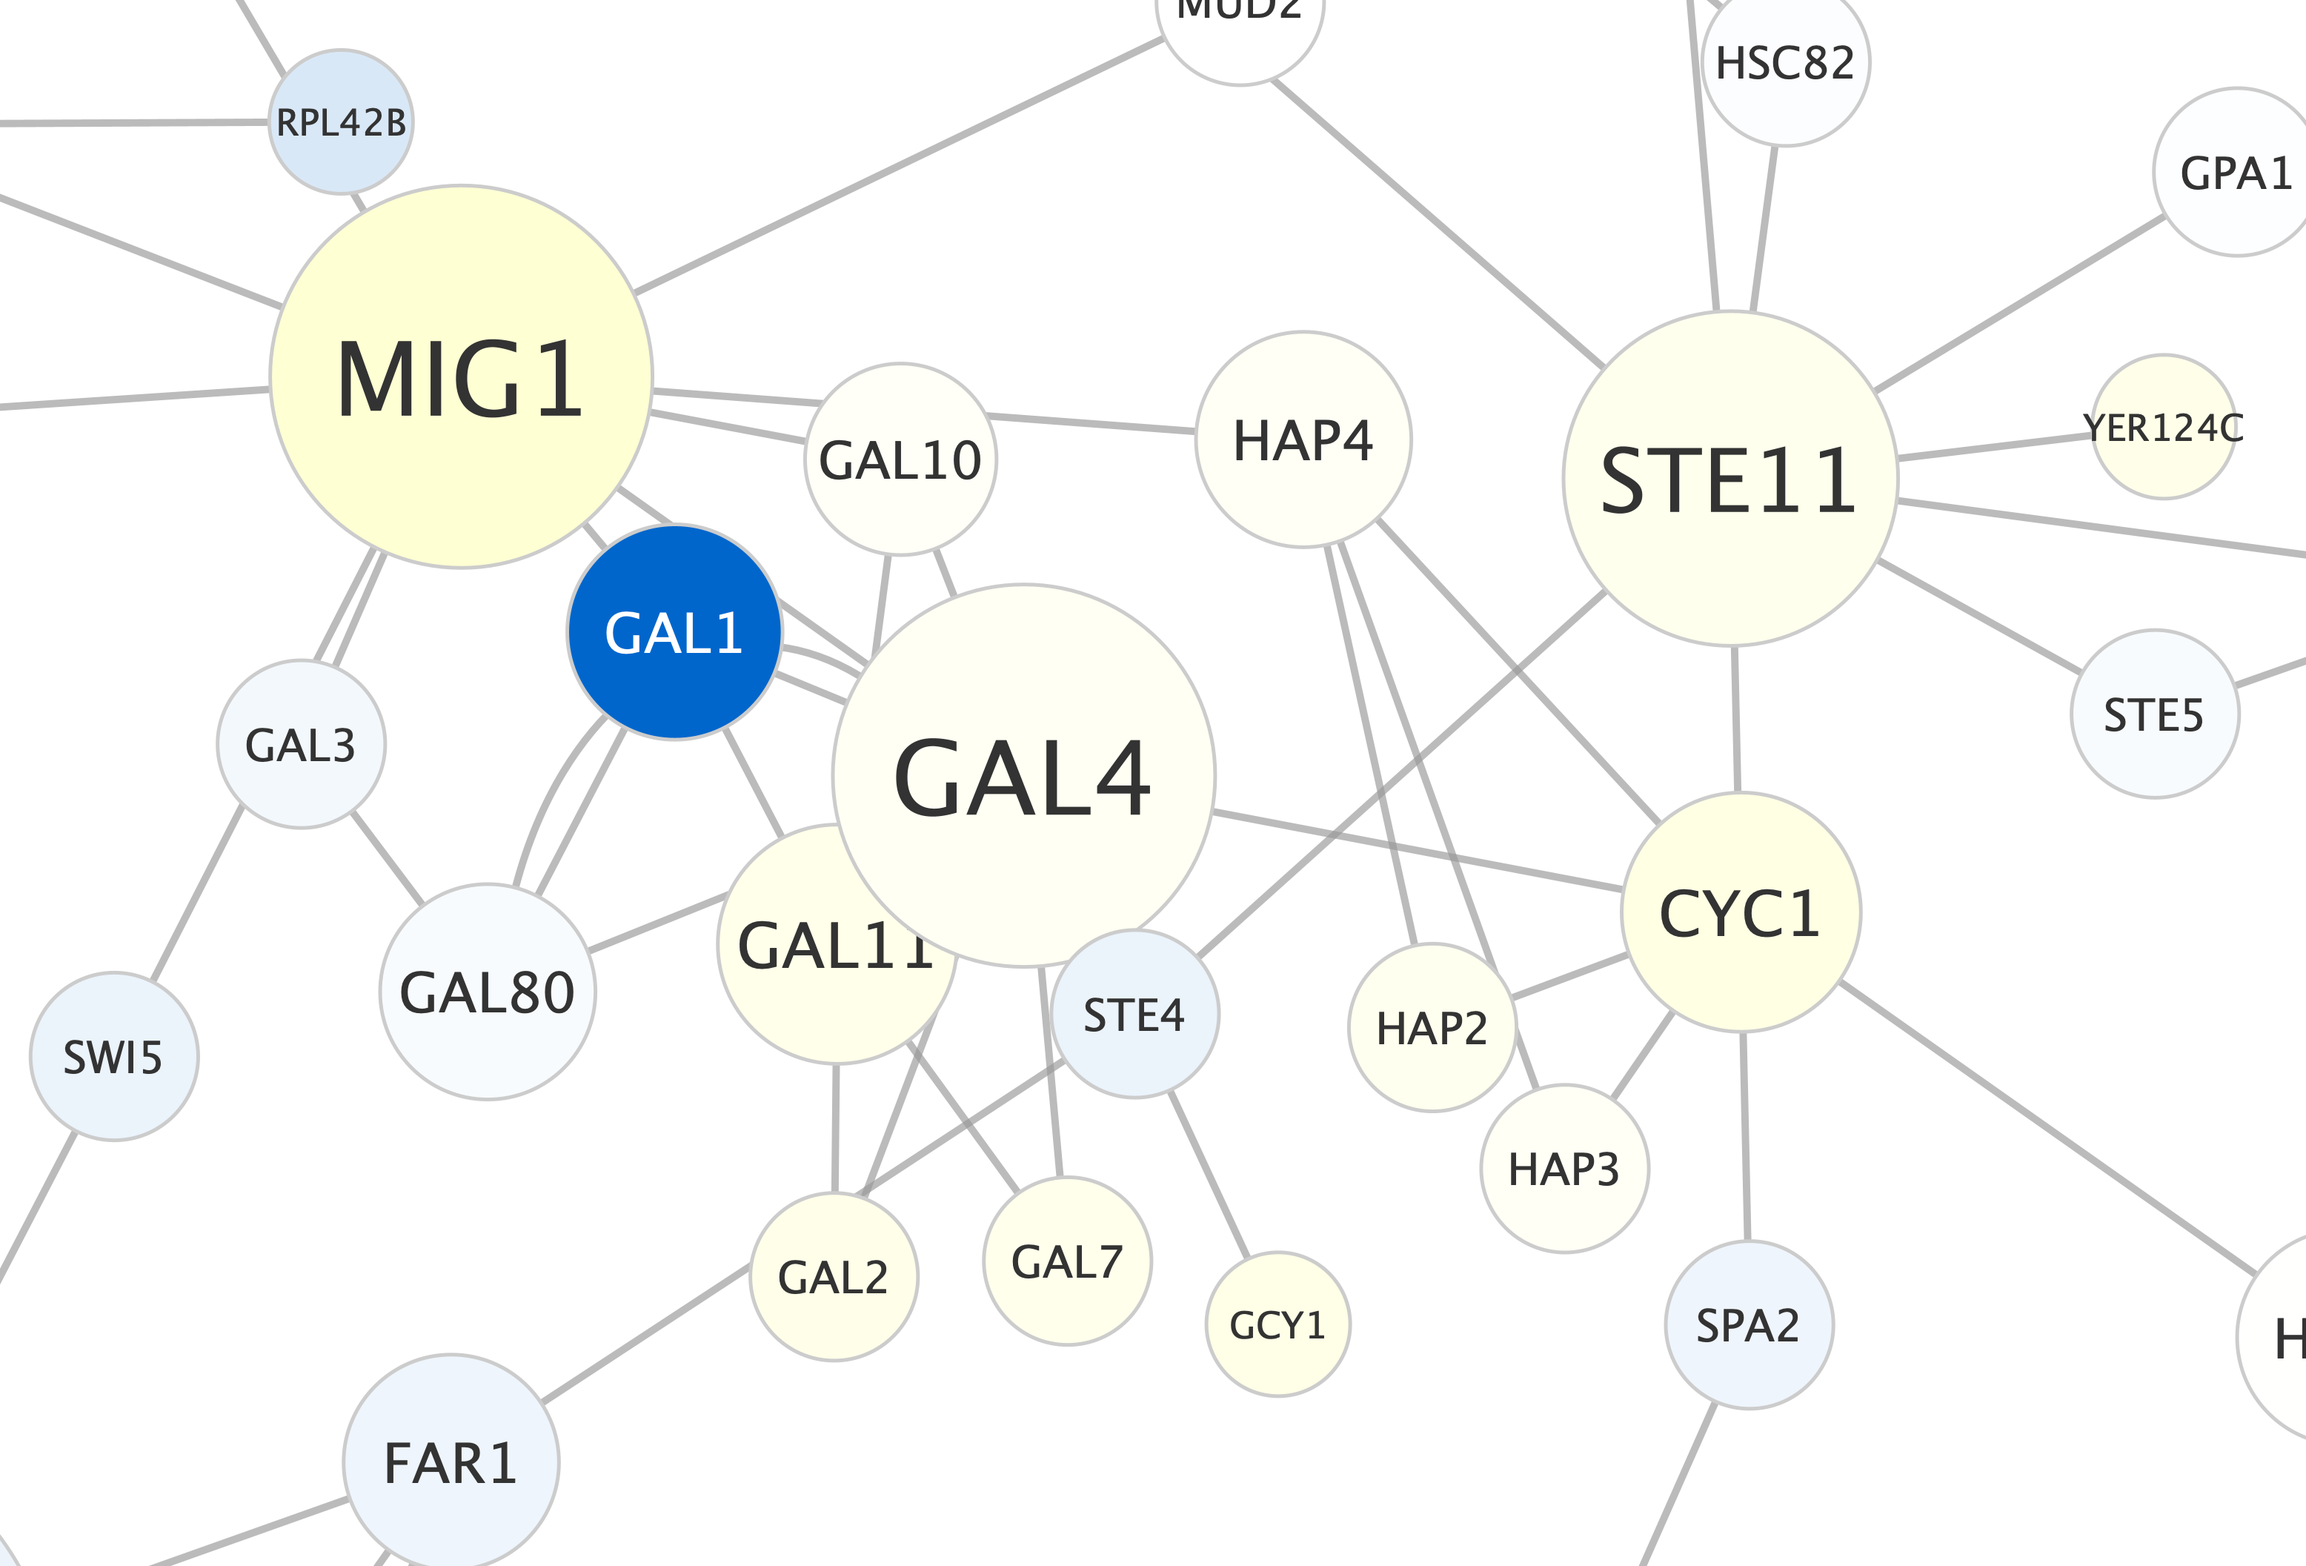
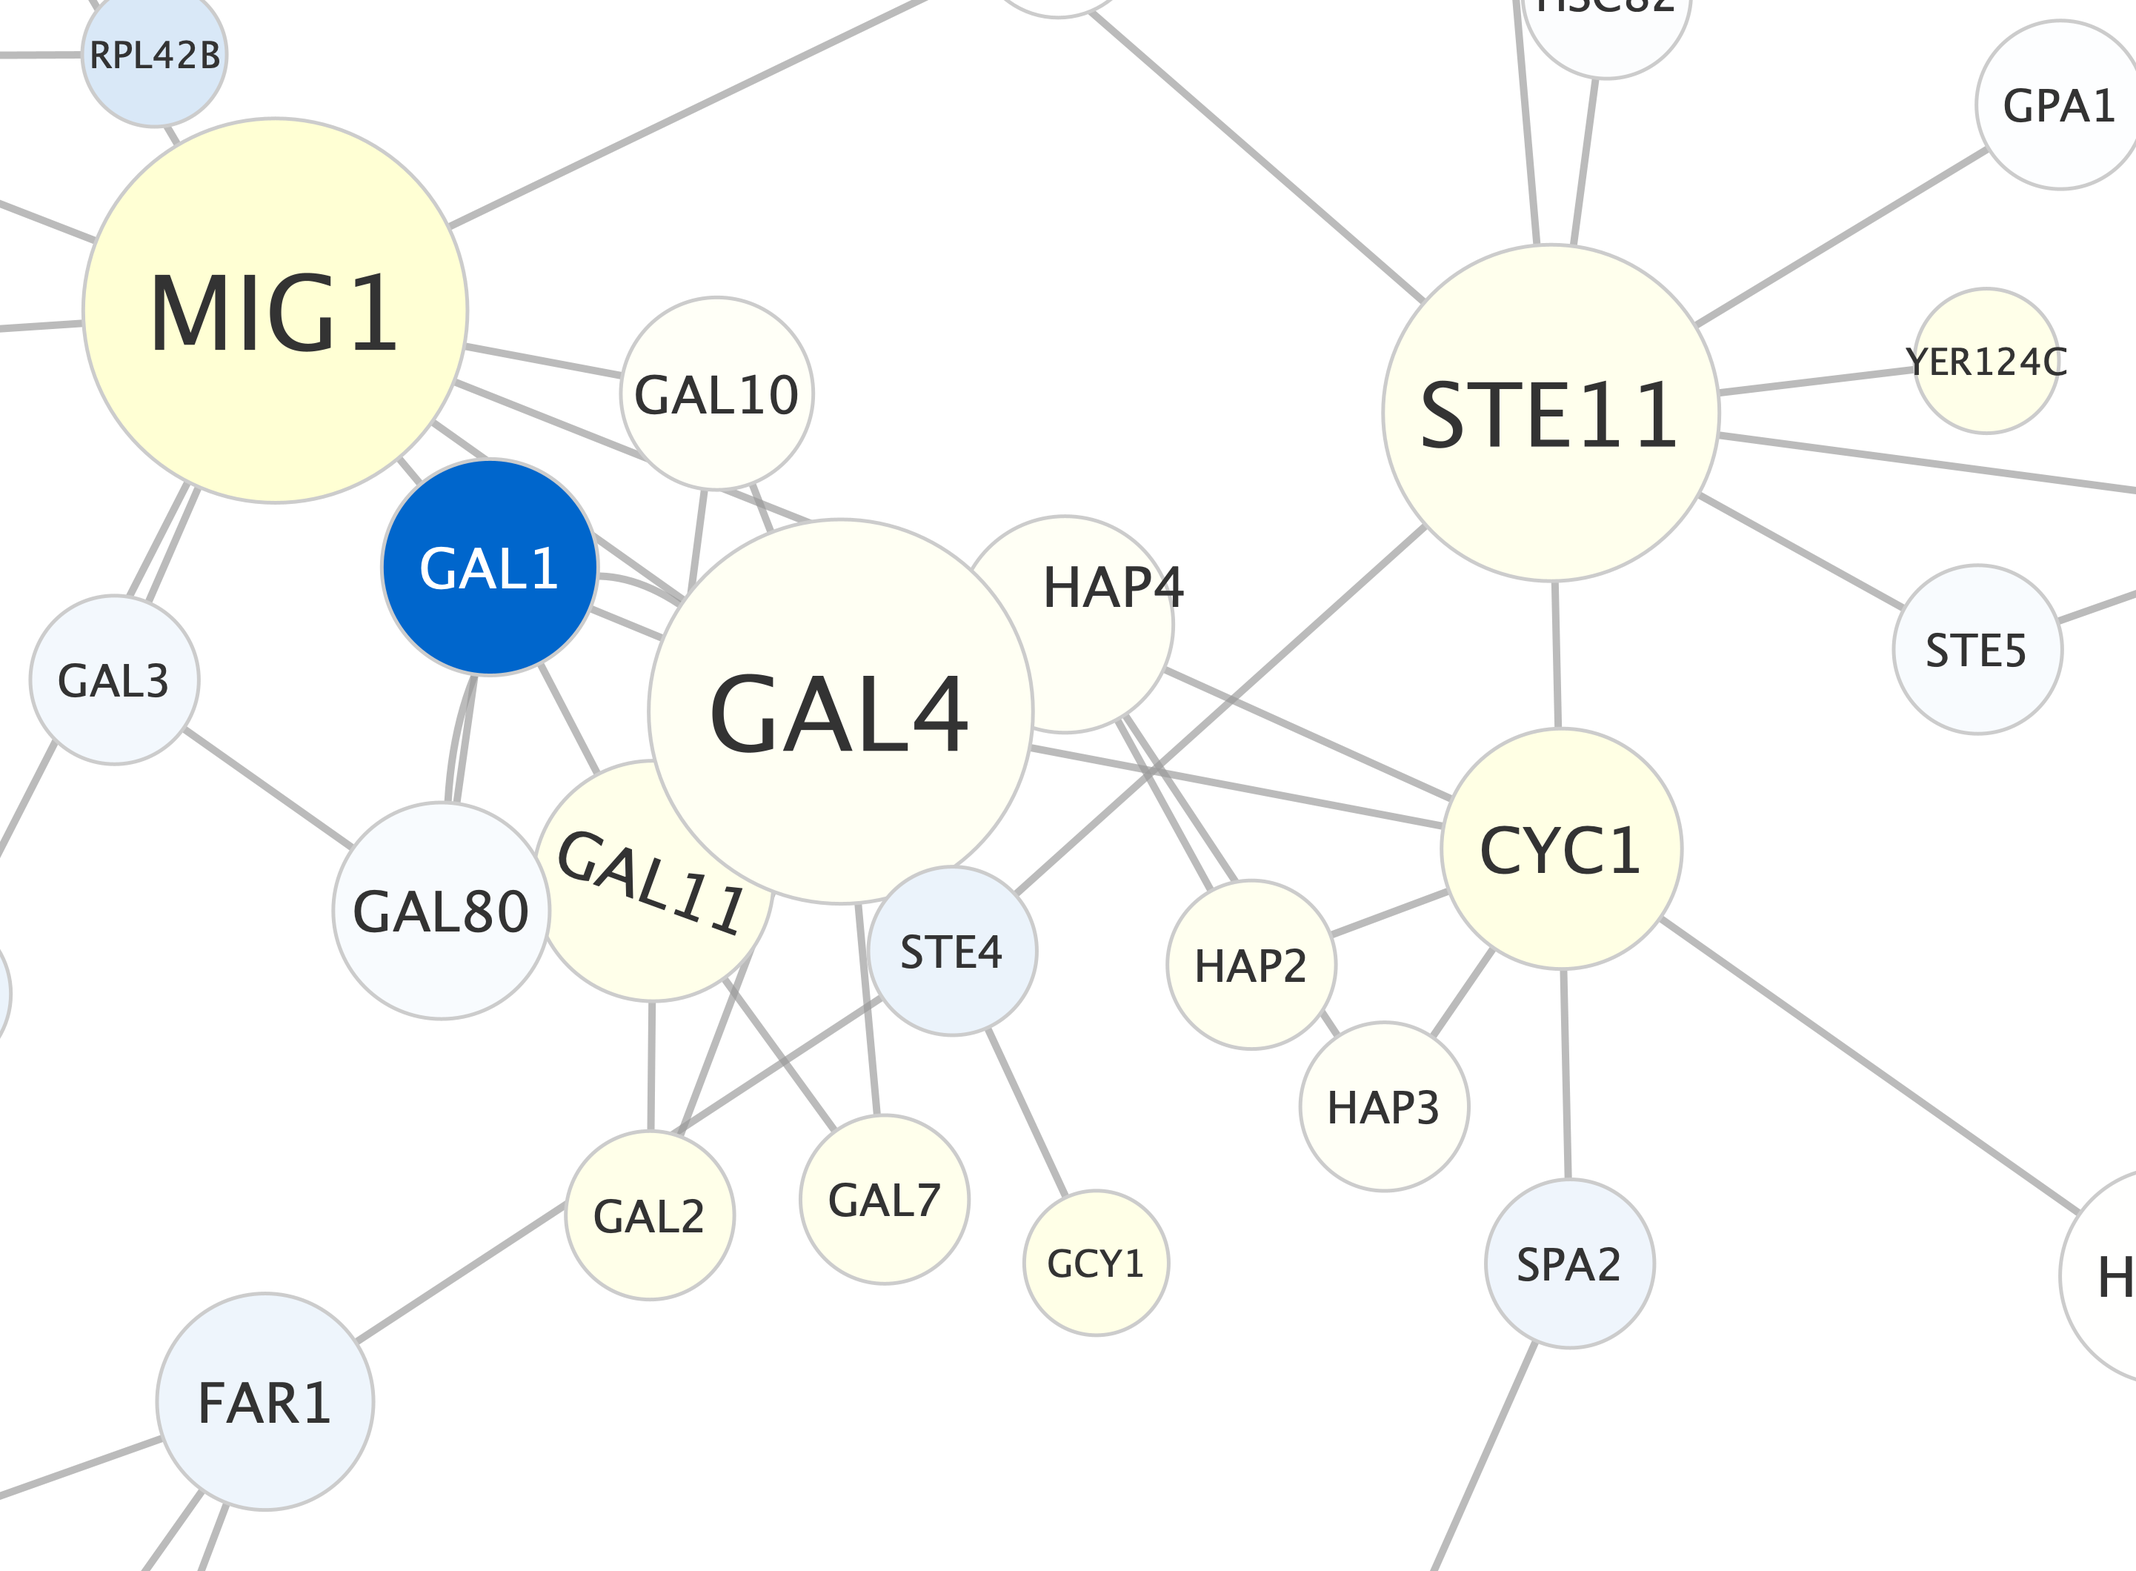
updated content and images

diff --git a/protocols/advanced-node-labels/index.html b/protocols/advanced-node-labels/index.html
@@ -68,21 +68,31 @@
     <ul>
         <li>First, change the <highlight>Node Label Position</highlight> back to the center of the node.</li>
         <li>In the <highlight>Network View Tools</highlight>, click the <highlight>Toggle Node Label Selection</highlight> <img class="plain" src="ToggleNodeLabel.png"/> button.</li>
-        <li>Select any node of your choice. Click on the node label to selec it, and drag the label to the desired location, for example the upper right corner.</li>
+        <li>Select the <b>HAP4</b> node, right behind the <b>GAL4</b> node. Click on the node label to select it, and drag the label to the desired location, for example the upper right corner.</li>
     </ul>
-    <p>In the below example, the label for node <b>STE12</b> node has been moved to the upper right.</p>
     <img class="plain" src="NodeLabelPositionViz2.png" style="width:40%"/>            
 </section>
                 
 <section>
+    <h1>Editing Node Label Rotation</h1>
+    <p>In addition to customizing the position of the label on the node, the rotation of the label can also be customized. For example, if a particular part of the network has overlaping nodes, the rotation of some node labels can be adjusted to increase legibility.</p>
+    <ul>
+        <li>In the <highlight>Style</highlight> interface, find <highlight>Node Label Rotation</highlight> under the <highlight>Properties</highlight> drop-down.</li>
+        <li>Select the <b>GAL11</b> node and in the <highlight>Bypass</highlight> column of <highlight>Node Label Rotation</highlight>, set the bypass to <b>20</b>. This will rotate the node label 20 degrees clockwise.</li>
+    </ul>
+    <img class="plain" src="NodeLabelRotation.png" style="width:50%"/>            
+</section>
+                
+<section>
     <h1>Editing Node Label Color</h1>
-    <p>In some cases, changing the position of all node labels isn't ideal, as the can label overlap other nodes. For these cases, we can change the <highlight>Node Label Color</highlight> of specific nodes instead. We will update the label color of the GAL1 node to increase the contrast between the node fill color and label color.</p>
+    <p>In some cases, changing the position of nodes labels isn't ideal, as the can label overlap other nodes. For these cases, we can change the <highlight>Node Label Color</highlight> of specific nodes instead. We will update the label color of the GAL1 node to increase the contrast between the node fill color and label color.</p>
     <ul>
         <li>Select the <b>GAL1</b> node.</li>
         <li>In the <highlight>Bypass</highlight> column of the <highlight>Node Label Color</highlight>. Select white as the new color.</li>
     </ul>
     <img class="plain" src="NodeLabelColorViz.png" style="width:50%"/>            
 </section>
+            
                 
 <!--<section>
     <h1>Editing Node Label Rotation</h1>
